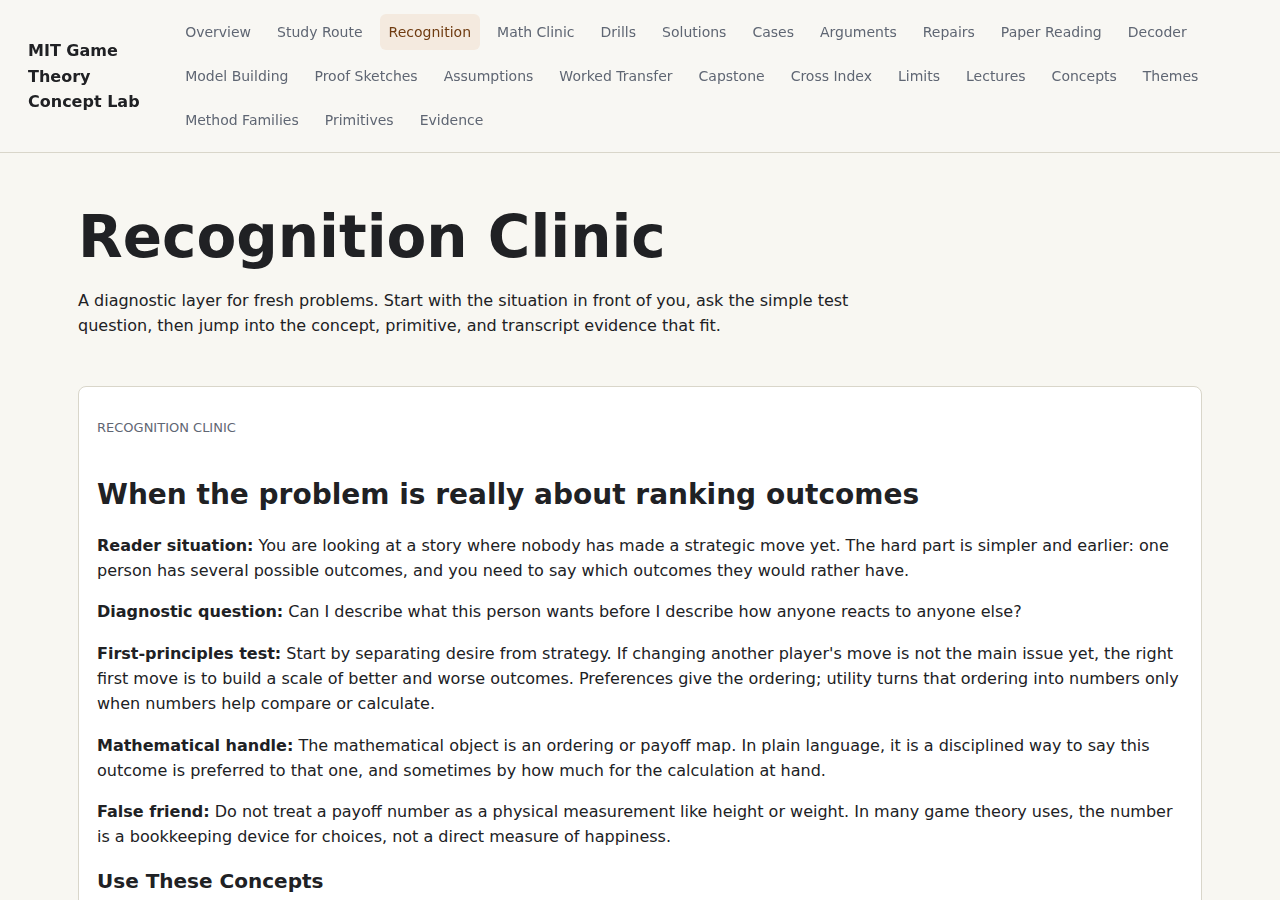
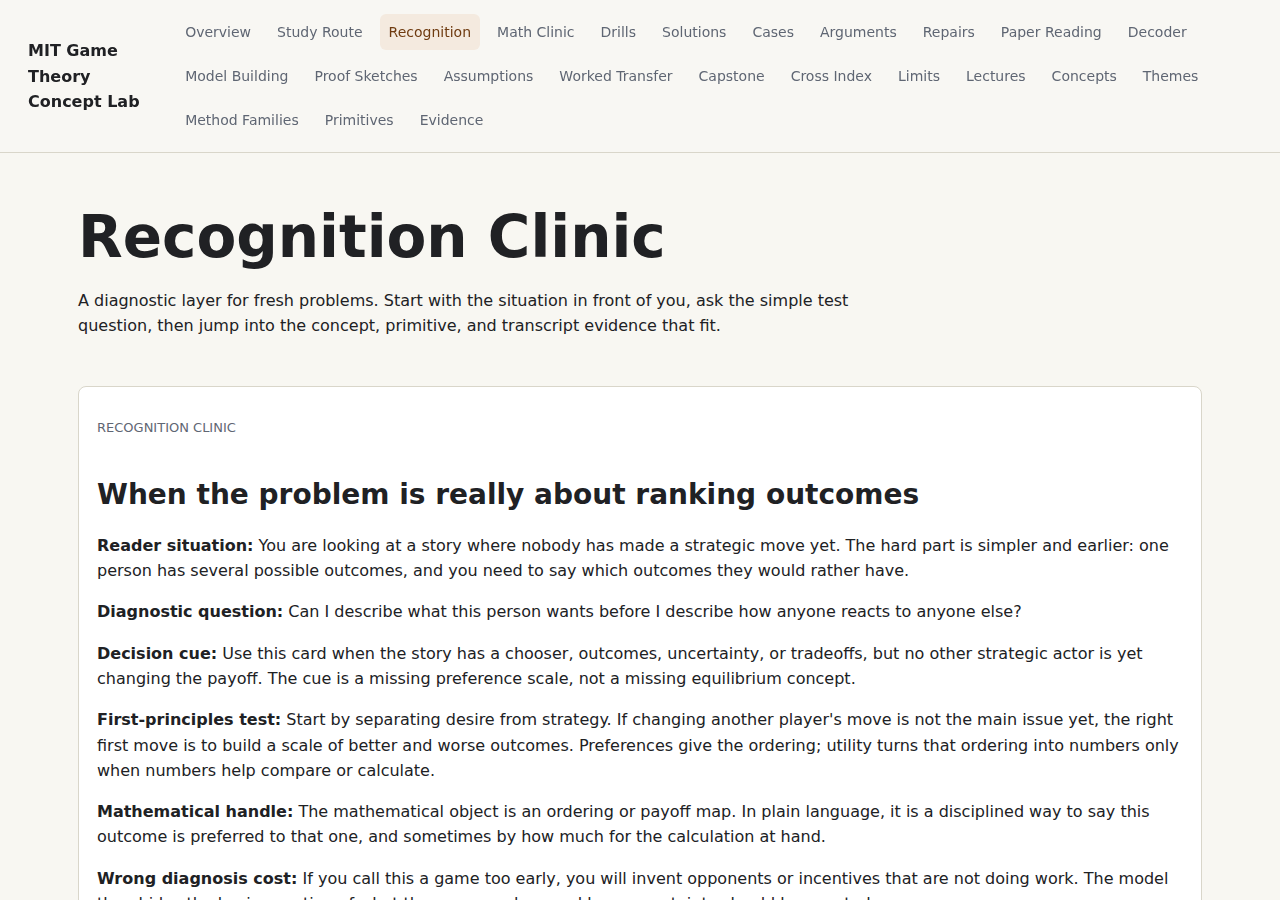
Deepen MIT recognition clinic

Changed region(s): [[0.0625, 0.7156, 0.9375, 0.9333], [0.0625, 0.9644, 0.9062, 1.0]]

diff --git a/site/recognition.html b/site/recognition.html
@@ -19,9 +19,13 @@
   <h2>When the problem is really about ranking outcomes</h2>
   <p><strong>Reader situation:</strong> You are looking at a story where nobody has made a strategic move yet. The hard part is simpler and earlier: one person has several possible outcomes, and you need to say which outcomes they would rather have.</p>
   <p><strong>Diagnostic question:</strong> Can I describe what this person wants before I describe how anyone reacts to anyone else?</p>
+  <p><strong>Decision cue:</strong> Use this card when the story has a chooser, outcomes, uncertainty, or tradeoffs, but no other strategic actor is yet changing the payoff. The cue is a missing preference scale, not a missing equilibrium concept.</p>
   <p><strong>First-principles test:</strong> Start by separating desire from strategy. If changing another player&#x27;s move is not the main issue yet, the right first move is to build a scale of better and worse outcomes. Preferences give the ordering; utility turns that ordering into numbers only when numbers help compare or calculate.</p>
   <p><strong>Mathematical handle:</strong> The mathematical object is an ordering or payoff map. In plain language, it is a disciplined way to say this outcome is preferred to that one, and sometimes by how much for the calculation at hand.</p>
+  <p><strong>Wrong diagnosis cost:</strong> If you call this a game too early, you will invent opponents or incentives that are not doing work. The model then hides the basic question of what the person values and how uncertainty should be counted.</p>
+  <p><strong>Worked recognition:</strong> In the transit example, first list what the rider ranks: shorter time, lower price, fewer transfers, reliability, or comfort. Only after those wants are represented should the analyst ask whether agencies, taxpayers, or rival riders create strategic dependence.</p>
   <p><strong>False friend:</strong> Do not treat a payoff number as a physical measurement like height or weight. In many game theory uses, the number is a bookkeeping device for choices, not a direct measure of happiness.</p>
+  <p><strong>Transfer check:</strong> In a new paper, stop at the first objective function and ask whether it represents one actor’s ranking or an interaction among actors. If it is only one actor, diagnose preference and utility before strategy.</p>
   <h3>Use These Concepts</h3><p class="chips"><a class="chip" href="concepts/preferences.html">Preferences</a><a class="chip" href="concepts/utility.html">Utility</a><a class="chip" href="concepts/expected_utility.html">Expected Utility</a></p>
   <h3>Reusable Primitives</h3><p class="chips"><a class="chip" href="primitives.html#preference">Preference</a><a class="chip" href="primitives.html#payoff_mapping">Payoff Mapping</a></p>
   <h3>Evidence Trail</h3><ul class="evidence-list"><li><a href="evidence.html#ev-preferences-01">ev-preferences-01</a>: Lecture 1: Introduction to Individual Decision-Making</li><li><a href="evidence.html#ev-utility-01">ev-utility-01</a>: Lecture 1: Introduction to Individual Decision-Making</li><li><a href="evidence.html#ev-expected_utility-01">ev-expected_utility-01</a>: Lecture 1: Introduction to Individual Decision-Making</li></ul>
@@ -31,9 +35,13 @@
   <h2>When the problem is really about drawing the situation correctly</h2>
   <p><strong>Reader situation:</strong> You are given a messy interaction and feel tempted to solve it immediately. But the real bottleneck is that the order of moves, available actions, and information are not yet clear.</p>
   <p><strong>Diagnostic question:</strong> Would the answer change if I wrote the same story as a table instead of a tree?</p>
+  <p><strong>Decision cue:</strong> Use this card when the facts are messy because timing, observation, or available actions are unclear. The cue is that changing the diagram from a table to a tree would change what counts as a sensible solution.</p>
   <p><strong>First-principles test:</strong> Ask what each player knows when they choose. If everyone chooses without seeing the others&#x27; current move, a table may be enough. If choices unfold over time, or later players observe earlier moves, the tree matters because timing can create or destroy credible threats.</p>
   <p><strong>Mathematical handle:</strong> The mathematical object is a representation of players, actions, timing, information, and payoffs. The math matters because different representations preserve different facts about the same story.</p>
+  <p><strong>Wrong diagnosis cost:</strong> If you skip representation, you can solve the wrong game perfectly. A simultaneous table can make later threats look fixed, while a tree can expose that the later player would not carry out the announced action.</p>
+  <p><strong>Worked recognition:</strong> In an entry-threat story, write the entrant’s choice first and the incumbent’s response second. If the incumbent chooses after seeing entry, credibility lives at that later node, so a tree is the honest representation.</p>
   <p><strong>False friend:</strong> Do not solve a game before checking whether the representation erased timing or information. A table can hide a threat that a tree exposes as not credible.</p>
+  <p><strong>Transfer check:</strong> When reading a model, ask what the author preserved: simultaneous actions, observed histories, private information, or later decision points. If the representation hides the disputed feature, the solution cannot settle the real question, even when the algebra after that point is correct.</p>
   <h3>Use These Concepts</h3><p class="chips"><a class="chip" href="concepts/strategic_form_games.html">Strategic Form Games</a><a class="chip" href="concepts/extensive_form_games.html">Extensive Form Games</a><a class="chip" href="concepts/backward_induction.html">Backward Induction</a></p>
   <h3>Reusable Primitives</h3><p class="chips"><a class="chip" href="primitives.html#payoff_mapping">Payoff Mapping</a><a class="chip" href="primitives.html#backward_recursion">Backward Recursion</a></p>
   <h3>Evidence Trail</h3><ul class="evidence-list"><li><a href="evidence.html#ev-strategic_form_games-01">ev-strategic_form_games-01</a>: Lecture 2: Representation of Games</li><li><a href="evidence.html#ev-extensive_form_games-01">ev-extensive_form_games-01</a>: Lecture 2: Representation of Games</li><li><a href="evidence.html#ev-backward_induction-01">ev-backward_induction-01</a>: Lecture 8: Backward Induction</li></ul>
@@ -43,9 +51,13 @@
   <h2>When the problem is really about ruling out unreasonable moves</h2>
   <p><strong>Reader situation:</strong> The game has too many possible choices, and some of them look foolish no matter what the other side does. The useful work is not predicting the final outcome yet; it is shrinking the possibility space.</p>
   <p><strong>Diagnostic question:</strong> Is there an action that is worse than another available action under every relevant comparison?</p>
+  <p><strong>Decision cue:</strong> Use this card when the main task is removing actions before predicting a final outcome. The cue is a comparison that does not need a probability over the opponent because one action loses across every relevant case in the represented game.</p>
   <p><strong>First-principles test:</strong> Look for a move that can be beaten without needing a precise prediction of the opponent. Dominance and iterated deletion are pruning tools: they remove choices that cannot be justified by any sensible belief about the other player&#x27;s behavior.</p>
   <p><strong>Mathematical handle:</strong> The mathematical lever is an inequality across payoffs. If one action always gives less than another against the same outside behavior, the weaker action can be deleted from serious consideration.</p>
+  <p><strong>Wrong diagnosis cost:</strong> If you call an unlikely action dominated, you smuggle beliefs into a pruning rule. That can delete strategies that later matter for equilibrium, signaling, or rationalizability, and it makes the reduced game look more certain than the original evidence allowed.</p>
+  <p><strong>Worked recognition:</strong> In a pricing game, do not delete low price merely because the rival is probably calm. Compare low price and high price against every rival action. If low price wins against an aggressive rival, dominance has failed.</p>
   <p><strong>False friend:</strong> Do not confuse unlikely with dominated. A move is not dominated merely because it sounds bad; it must lose under the comparison the model is actually making.</p>
+  <p><strong>Transfer check:</strong> In a proof, find the exact set of outside actions used in deletion. If the author has not compared every relevant case, move from dominance language to belief, best-response, or equilibrium language.</p>
   <h3>Use These Concepts</h3><p class="chips"><a class="chip" href="concepts/dominance.html">Dominance</a><a class="chip" href="concepts/iterated_deletion.html">Iterated Deletion</a><a class="chip" href="concepts/rationalizability.html">Rationalizability</a></p>
   <h3>Reusable Primitives</h3><p class="chips"><a class="chip" href="primitives.html#pruning">Pruning</a><a class="chip" href="primitives.html#best_response">Best Response</a><a class="chip" href="primitives.html#belief">Belief</a></p>
   <h3>Evidence Trail</h3><ul class="evidence-list"><li><a href="evidence.html#ev-dominance-01">ev-dominance-01</a>: Lecture 3: Dominance</li><li><a href="evidence.html#ev-iterated_deletion-01">ev-iterated_deletion-01</a>: Lecture 4: Rationalizability</li><li><a href="evidence.html#ev-rationalizability-01">ev-rationalizability-01</a>: Lecture 4: Rationalizability</li></ul>
@@ -55,9 +67,13 @@
   <h2>When the problem is really about mutual consistency</h2>
   <p><strong>Reader situation:</strong> Each player&#x27;s best move depends on what the other players do. A recommendation that sounds good for one person may collapse once the others are allowed to respond.</p>
   <p><strong>Diagnostic question:</strong> If everyone heard the proposed prediction, would anyone want to change their own move?</p>
+  <p><strong>Decision cue:</strong> Use this card when each player’s best move depends on what others do and the question is whether a proposed prediction holds together. The cue is a unilateral deviation check against a fully specified candidate outcome.</p>
   <p><strong>First-principles test:</strong> Hold the other players&#x27; choices fixed and ask whether each player is doing the best they can from their own point of view. Equilibrium is not moral approval and not group happiness; it is a no-one-wants-to-unilaterally-move test.</p>
   <p><strong>Mathematical handle:</strong> The mathematical object is a fixed point of best responses. In everyday terms, the prediction points back to itself: each part of the prediction gives the other parts a reason to stay in place.</p>
+  <p><strong>Wrong diagnosis cost:</strong> If you confuse equilibrium with welfare, you will reject stable bad outcomes or praise inefficient ones. The model’s prediction claim and the analyst’s welfare judgment become mixed together, so the reader cannot tell what the theorem actually proved.</p>
+  <p><strong>Worked recognition:</strong> For aggressive pricing, freeze one firm at aggressive and ask whether the other wants to switch. Repeat in the other direction. If neither wants to move alone, the outcome can be equilibrium even if both prefer coordinated softness.</p>
   <p><strong>False friend:</strong> Do not read equilibrium as good, fair, efficient, or inevitable. It can be bad for everyone, and the course uses it because it is a disciplined prediction test, not because it is a welfare judgment.</p>
+  <p><strong>Transfer check:</strong> When a paper says equilibrium, ask which deviations are allowed. If only one player can move alone, do not infer efficiency, fairness, uniqueness, convergence, or stability against coalitions.</p>
   <h3>Use These Concepts</h3><p class="chips"><a class="chip" href="concepts/best_response.html">Best Response</a><a class="chip" href="concepts/nash_equilibrium.html">Nash Equilibrium</a><a class="chip" href="concepts/mixed_strategies.html">Mixed Strategies</a><a class="chip" href="concepts/zero_sum_games.html">Zero-Sum Games</a><a class="chip" href="concepts/minimax.html">Minimax</a></p>
   <h3>Reusable Primitives</h3><p class="chips"><a class="chip" href="primitives.html#best_response">Best Response</a><a class="chip" href="primitives.html#mutual_consistency">Mutual Consistency</a><a class="chip" href="primitives.html#belief">Belief</a></p>
   <h3>Evidence Trail</h3><ul class="evidence-list"><li><a href="evidence.html#ev-best_response-02">ev-best_response-02</a>: Lecture 5: Nash Equilibrium</li><li><a href="evidence.html#ev-nash_equilibrium-01">ev-nash_equilibrium-01</a>: Lecture 5: Nash Equilibrium</li><li><a href="evidence.html#ev-mixed_strategies-01">ev-mixed_strategies-01</a>: Lecture 5: Nash Equilibrium</li><li><a href="evidence.html#ev-minimax-02">ev-minimax-02</a>: Lecture 7: Zero-Sum Games</li></ul>
@@ -67,33 +83,45 @@
   <h2>When the problem is really about time and credibility</h2>
   <p><strong>Reader situation:</strong> A player promises, threatens, delays, bargains, or plans to act later. The central question is whether a future action would still make sense when that future moment arrives.</p>
   <p><strong>Diagnostic question:</strong> Would the player still want to carry out the announced plan after reaching the point where the plan is supposed to happen?</p>
+  <p><strong>Decision cue:</strong> Use this card when promises, threats, bargaining offers, delays, or future punishments appear. The cue is that today’s statement must be tested at a later decision point where the speaker may face different incentives.</p>
   <p><strong>First-principles test:</strong> Reason from the end backward. A future threat only matters if it is optimal when the future decision point is actually reached. Backward induction and subgame perfection make the model check promises at the moment they must be honored.</p>
   <p><strong>Mathematical handle:</strong> The mathematical lever is recursion over time: solve the later choice, then use that answer when solving the earlier choice. The later self constrains what the earlier self can credibly claim.</p>
+  <p><strong>Wrong diagnosis cost:</strong> If you accept future speech at face value, you can predict deterrence from empty announcements. The model then gives early words more force than later incentives justify and misses the credibility problem the tree was meant to expose.</p>
+  <p><strong>Worked recognition:</strong> For an incumbent threat, jump to the node after entry and compare fight with accommodate. If accommodate is better there, backward induction says the entrant should not treat the earlier threat as credible without commitment.</p>
   <p><strong>False friend:</strong> Do not accept a threat just because it changes today&#x27;s incentives. If carrying it out tomorrow would hurt the threatener, the model treats it as empty unless another mechanism repairs credibility.</p>
+  <p><strong>Transfer check:</strong> In any dynamic model, identify the last real choice and solve it first. Then work backward. If a claimed strategy fails at a later subgame, the early prediction needs repair.</p>
   <h3>Use These Concepts</h3><p class="chips"><a class="chip" href="concepts/backward_induction.html">Backward Induction</a><a class="chip" href="concepts/subgame_perfection.html">Subgame-Perfect Nash Equilibrium</a><a class="chip" href="concepts/one_shot_deviation.html">One-Shot Deviation Principle</a><a class="chip" href="concepts/bargaining.html">Bargaining</a></p>
   <h3>Reusable Primitives</h3><p class="chips"><a class="chip" href="primitives.html#backward_recursion">Backward Recursion</a><a class="chip" href="primitives.html#discounting">Discounting</a><a class="chip" href="primitives.html#mutual_consistency">Mutual Consistency</a></p>
   <h3>Evidence Trail</h3><ul class="evidence-list"><li><a href="evidence.html#ev-backward_induction-02">ev-backward_induction-02</a>: Lecture 2: Representation of Games</li><li><a href="evidence.html#ev-subgame_perfection-01">ev-subgame_perfection-01</a>: Lecture 10: Subgame-Perfect Nash Equilibrium</li><li><a href="evidence.html#ev-one_shot_deviation-01">ev-one_shot_deviation-01</a>: Lecture 11: One-Shot Deviation Principle and Bargaining</li><li><a href="evidence.html#ev-bargaining-01">ev-bargaining-01</a>: Lecture 9: Negotiation</li></ul>
-  <p><strong>Where to go next:</strong> If the same players meet again and again, ask whether the future can discipline present behavior through repeated-game incentives.</p>
+  <p><strong>Where to go next:</strong> If the same players meet again and again, ask whether the future can discipline present behavior through repeated-game incentives, monitoring, and credible punishment.</p>
 </article><article class="wide-card recognition-card" id="clinic-repetition">
   <p class="eyebrow">Recognition clinic</p>
   <h2>When the problem is really about the future disciplining the present</h2>
   <p><strong>Reader situation:</strong> The same players interact repeatedly, so today&#x27;s selfish move may change tomorrow&#x27;s treatment. The current action is also a signal about how the relationship will continue.</p>
   <p><strong>Diagnostic question:</strong> Is a short-run temptation being restrained by the value of future cooperation?</p>
-  <p><strong>First-principles test:</strong> Compare the one-time gain from deviating with the future loss from being punished or losing cooperation. Repetition matters when future consequences are large enough to change what is rational today.</p>
+  <p><strong>Decision cue:</strong> Use this card when the same players meet over time and today’s action changes future rewards or punishments. The cue is a tradeoff between immediate temptation and continuation value.</p>
+  <p><strong>First-principles test:</strong> Compare the one-time gain from deviating with the future loss from being punished or losing cooperation. Repetition matters when future consequences are large enough to change what is rational today, not merely because the relationship continues.</p>
   <p><strong>Mathematical handle:</strong> The mathematical lever is discounting: future payoffs are counted, but usually with less weight than immediate payoffs. Cooperation can survive only when the discounted future is strong enough to outweigh the immediate temptation.</p>
+  <p><strong>Wrong diagnosis cost:</strong> If repetition is treated as automatic cooperation, finite horizons, weak monitoring, low patience, and noncredible punishment disappear. The repeated-game claim becomes a slogan rather than an incentive calculation.</p>
+  <p><strong>Worked recognition:</strong> For a tacit cartel, name the gain from secretly cutting price today and the loss from future price wars. Cooperation is plausible only when the discounted future loss is large enough to beat the current gain and the rival can actually detect and punish cheating.</p>
   <p><strong>False friend:</strong> Do not assume repetition automatically creates cooperation. If the end is known and close, or players care little about the future, the repeated game can unravel back toward one-shot behavior.</p>
+  <p><strong>Transfer check:</strong> When a paper invokes future discipline, locate the deviation payoff, punishment path, monitoring assumption, and discount factor. If one is missing, mark the cooperation claim as incomplete rather than treating repetition as the mechanism by itself.</p>
   <h3>Use These Concepts</h3><p class="chips"><a class="chip" href="concepts/finitely_repeated_games.html">Finitely Repeated Games</a><a class="chip" href="concepts/infinitely_repeated_games.html">Infinitely Repeated Games</a><a class="chip" href="concepts/folk_theorem.html">Folk Theorem</a><a class="chip" href="concepts/implicit_cartels.html">Implicit Cartels</a></p>
   <h3>Reusable Primitives</h3><p class="chips"><a class="chip" href="primitives.html#discounting">Discounting</a><a class="chip" href="primitives.html#incentive_compatibility">Incentive Compatibility</a><a class="chip" href="primitives.html#mutual_consistency">Mutual Consistency</a></p>
   <h3>Evidence Trail</h3><ul class="evidence-list"><li><a href="evidence.html#ev-finitely_repeated_games-01">ev-finitely_repeated_games-01</a>: Lecture 12: Finitely Repeated Games</li><li><a href="evidence.html#ev-infinitely_repeated_games-01">ev-infinitely_repeated_games-01</a>: Lecture 13: Infinitely Repeated Games</li><li><a href="evidence.html#ev-folk_theorem-01">ev-folk_theorem-01</a>: Lecture 14: Folk Theorem</li><li><a href="evidence.html#ev-implicit_cartels-01">ev-implicit_cartels-01</a>: Lecture 15: Implicit Cartels</li></ul>
-  <p><strong>Where to go next:</strong> If players differ in hidden ways or observe different information, add beliefs and ask what each player can infer from what they see.</p>
+  <p><strong>Where to go next:</strong> If players differ in hidden ways or observe different information, add beliefs and ask what each player can infer from what they see before treating behavior as straightforward choice.</p>
 </article><article class="wide-card recognition-card" id="clinic-private-information">
   <p class="eyebrow">Recognition clinic</p>
   <h2>When the problem is really about hidden information</h2>
   <p><strong>Reader situation:</strong> One side knows something the other side does not: a cost, value, quality, patience level, or outside option. The visible action is partly a choice and partly evidence about the hidden fact.</p>
   <p><strong>Diagnostic question:</strong> Am I trying to predict behavior when players disagree about what kind of person or situation they are facing?</p>
+  <p><strong>Decision cue:</strong> Use this card when one side knows a value, cost, type, quality, or outside option that others cannot directly observe. The cue is that visible behavior also serves as evidence, because observers must infer what kind of player would choose that action.</p>
   <p><strong>First-principles test:</strong> List the possible hidden types and ask what each type would do. Then ask how observers should update their beliefs after seeing an action. Hidden information turns strategy into a joint problem of choosing and interpreting.</p>
   <p><strong>Mathematical handle:</strong> The mathematical object is a belief over possible types, combined with payoffs conditional on those types. Bayes&#x27; rule enters when observed behavior changes which hidden type seems more likely.</p>
+  <p><strong>Wrong diagnosis cost:</strong> If you ignore hidden types, you may treat a signal as a simple statement or a belief as arbitrary. The model then misses imitation incentives and unsupported posterior beliefs.</p>
+  <p><strong>Worked recognition:</strong> For a warranty, ask which seller types find the warranty cheap. If reliable sellers can afford it and unreliable sellers cannot profitably imitate, the warranty can move buyer beliefs. If all types mimic, it cannot separate quality.</p>
   <p><strong>False friend:</strong> Do not treat a belief as a guess with no discipline. In Bayesian games and signaling settings, beliefs must be tied to the possible types, observed actions, and equilibrium logic.</p>
+  <p><strong>Transfer check:</strong> In a new signaling or Bayesian model, list types, priors, observed actions, and imitation checks. A belief update is disciplined only when those pieces explain why the action came from some types more than others.</p>
   <h3>Use These Concepts</h3><p class="chips"><a class="chip" href="concepts/bayesian_games.html">Bayesian Games</a><a class="chip" href="concepts/types_and_beliefs.html">Types And Beliefs</a><a class="chip" href="concepts/bayesian_nash_equilibrium.html">Bayesian Nash Equilibrium</a><a class="chip" href="concepts/screening_and_adverse_selection.html">Screening And Adverse Selection</a><a class="chip" href="concepts/perfect_bayesian_equilibrium.html">Perfect Bayesian Equilibrium</a></p>
   <h3>Reusable Primitives</h3><p class="chips"><a class="chip" href="primitives.html#belief">Belief</a><a class="chip" href="primitives.html#incentive_compatibility">Incentive Compatibility</a><a class="chip" href="primitives.html#mutual_consistency">Mutual Consistency</a></p>
   <h3>Evidence Trail</h3><ul class="evidence-list"><li><a href="evidence.html#ev-bayesian_games-01">ev-bayesian_games-01</a>: Lecture 16: Bayesian Games</li><li><a href="evidence.html#ev-types_and_beliefs-01">ev-types_and_beliefs-01</a>: Lecture 16: Bayesian Games</li><li><a href="evidence.html#ev-bayesian_nash_equilibrium-01">ev-bayesian_nash_equilibrium-01</a>: Lecture 17: Bayesian Nash Equilibrium: Applications</li><li><a href="evidence.html#ev-screening_and_adverse_selection-01">ev-screening_and_adverse_selection-01</a>: Lecture 16: Bayesian Games</li></ul>
@@ -101,15 +129,19 @@
 </article><article class="wide-card recognition-card" id="clinic-design">
   <p class="eyebrow">Recognition clinic</p>
   <h2>When the problem is really about rules shaping incentives</h2>
-  <p><strong>Reader situation:</strong> The main object is not a player choosing inside fixed rules, but the rules themselves: an auction format, market institution, ad slot system, contract, or communication protocol.</p>
+  <p><strong>Reader situation:</strong> The main object is not a player choosing inside fixed rules, but the rules themselves: an auction format, market institution, ad slot system, contract, or communication protocol that changes participant incentives.</p>
   <p><strong>Diagnostic question:</strong> Would changing the rules change what people reveal, bid, produce, or hide?</p>
-  <p><strong>First-principles test:</strong> Treat rules as machines for translating private motives into observable behavior. A good mechanism makes the desired behavior individually sensible; a bad one rewards hiding, shading, collusion, or misleading signals.</p>
+  <p><strong>Decision cue:</strong> Use this card when the rules themselves are the object: an auction, ranking system, contract, market protocol, or communication rule. The cue is that changing the rule changes what participants reveal or choose, even when their private values stay fixed.</p>
+  <p><strong>First-principles test:</strong> Treat rules as machines for translating private motives into observable behavior. A good mechanism makes the desired behavior individually sensible; a bad one rewards hiding, shading, collusion, or misleading signals even if the designer announces a better goal.</p>
   <p><strong>Mathematical handle:</strong> The mathematical lever is incentive compatibility: the rule should make the intended action line up with each participant&#x27;s own payoff calculation. Auctions, screening, and ad markets are different settings where that alignment is the design problem.</p>
+  <p><strong>Wrong diagnosis cost:</strong> If rules are treated as neutral background, the analyst misses how allocation and payment rules create strategic responses. A mechanism can fail because it rewards hiding, shading, collusion, or low-quality signaling.</p>
+  <p><strong>Worked recognition:</strong> In an ad auction, separate the bid, quality score, allocation rule, and payment rule. The platform’s goal matters only through the private calculations advertisers make under those rules, because advertisers respond to expected payoff rather than to the platform’s stated objective.</p>
   <p><strong>False friend:</strong> Do not judge a rule only by the outcome it asks for. The question is whether self-interested participants have a reason to produce that outcome when the rule is actually used.</p>
+  <p><strong>Transfer check:</strong> For any mechanism, write the rule as input to outcome: private information and actions go in, allocation and payments come out. Then ask whether each participant’s best response produces the intended result.</p>
   <h3>Use These Concepts</h3><p class="chips"><a class="chip" href="concepts/imperfect_competition.html">Imperfect Competition</a><a class="chip" href="concepts/auctions.html">Auctions</a><a class="chip" href="concepts/revenue_equivalence.html">Revenue Equivalence</a><a class="chip" href="concepts/ad_auctions.html">Ad Auctions</a><a class="chip" href="concepts/signaling.html">Signaling</a><a class="chip" href="concepts/cheap_talk.html">Cheap Talk</a></p>
   <h3>Reusable Primitives</h3><p class="chips"><a class="chip" href="primitives.html#incentive_compatibility">Incentive Compatibility</a><a class="chip" href="primitives.html#payoff_mapping">Payoff Mapping</a><a class="chip" href="primitives.html#belief">Belief</a></p>
   <h3>Evidence Trail</h3><ul class="evidence-list"><li><a href="evidence.html#ev-auctions-01">ev-auctions-01</a>: Lecture 18: Auctions</li><li><a href="evidence.html#ev-revenue_equivalence-01">ev-revenue_equivalence-01</a>: Lecture 19: Revenue Equivalence</li><li><a href="evidence.html#ev-ad_auctions-01">ev-ad_auctions-01</a>: Lecture 20: Ad Auctions</li><li><a href="evidence.html#ev-cheap_talk-01">ev-cheap_talk-01</a>: Lecture 24: Cheap Talk</li></ul>
-  <p><strong>Where to go next:</strong> If the rule includes messages or public announcements, ask whether the information becomes shared knowledge or merely private interpretation.</p>
+  <p><strong>Where to go next:</strong> If the rule includes messages or public announcements, ask whether the information becomes shared knowledge, credible communication, or merely private interpretation.</p>
 </article></main>
 </body>
 </html>

diff --git a/scripts/validate_site.py b/scripts/validate_site.py
@@ -168,13 +168,15 @@ def main() -> int:
     for item in clinic:
         if f'id="{item["id"]}"' not in recognition_html:
             errors.append(f"recognition clinic item not rendered: {item['id']}")
-        for field in ["reader_situation", "diagnostic_question", "first_principles_test", "mathematical_handle", "false_friend", "where_to_go_next"]:
+        fields = ["reader_situation", "diagnostic_question", "decision_cue", "first_principles_test", "mathematical_handle", "wrong_diagnosis_cost", "worked_recognition", "false_friend", "transfer_check", "where_to_go_next"]
+        for field in fields:
             value = item.get(field, "")
-            if words(value) < 10:
+            minimum = 10 if field in ["diagnostic_question", "where_to_go_next"] else 24
+            if words(value) < minimum:
                 errors.append(f"recognition clinic {item['id']} has shallow {field}")
             elif html.escape(value, quote=True) not in recognition_html:
                 errors.append(f"recognition clinic {item['id']} {field} not rendered")
-        if words(" ".join(str(item.get(field, "")) for field in ["reader_situation", "first_principles_test", "mathematical_handle", "false_friend", "where_to_go_next"])) < 95:
+        if words(" ".join(str(item.get(field, "")) for field in fields)) < 310:
             errors.append(f"recognition clinic {item['id']} has shallow combined treatment")
         for concept_id in item.get("use_these_concepts", []):
             if concept_id not in concept_by_id:

diff --git a/scripts/audit_editorial_quality.py b/scripts/audit_editorial_quality.py
@@ -289,11 +289,11 @@ def main() -> int:
             errors.append(f"recognition clinic {item['id']} not rendered")
         text = " ".join(
             str(item.get(k, ""))
-            for k in ["reader_situation", "diagnostic_question", "first_principles_test", "mathematical_handle", "false_friend", "where_to_go_next"]
+            for k in ["reader_situation", "diagnostic_question", "decision_cue", "first_principles_test", "mathematical_handle", "wrong_diagnosis_cost", "worked_recognition", "false_friend", "transfer_check", "where_to_go_next"]
         )
         treatment_words = words(text)
         recognition_words.append(treatment_words)
-        if treatment_words < 95:
+        if treatment_words < 310:
             errors.append(f"recognition clinic {item['id']} has shallow diagnostic treatment: {treatment_words} words")
         linked_concepts = [cid for cid in item.get("use_these_concepts", []) if f'href="concepts/{cid}.html"' in recognition_html]
         linked_primitives = [pid for pid in item.get("use_these_primitives", []) if f'href="primitives.html#{pid}"' in recognition_html]

diff --git a/scripts/build_site.py b/scripts/build_site.py
@@ -309,9 +309,13 @@ def build_recognition_clinic(clinic, concept_by_id, primitive_by_id, ev_by_id):
   <h2>{esc(item["title"])}</h2>
   <p><strong>Reader situation:</strong> {esc(item["reader_situation"])}</p>
   <p><strong>Diagnostic question:</strong> {esc(item["diagnostic_question"])}</p>
+  <p><strong>Decision cue:</strong> {esc(item["decision_cue"])}</p>
   <p><strong>First-principles test:</strong> {esc(item["first_principles_test"])}</p>
   <p><strong>Mathematical handle:</strong> {esc(item["mathematical_handle"])}</p>
+  <p><strong>Wrong diagnosis cost:</strong> {esc(item["wrong_diagnosis_cost"])}</p>
+  <p><strong>Worked recognition:</strong> {esc(item["worked_recognition"])}</p>
   <p><strong>False friend:</strong> {esc(item["false_friend"])}</p>
+  <p><strong>Transfer check:</strong> {esc(item["transfer_check"])}</p>
   <h3>Use These Concepts</h3><p class="chips">{concept_links}</p>
   <h3>Reusable Primitives</h3><p class="chips">{primitive_links}</p>
   <h3>Evidence Trail</h3><ul class="evidence-list">{evidence_links}</ul>

diff --git a/analysis/audits/site-render-report.md b/analysis/audits/site-render-report.md
@@ -10,7 +10,7 @@ Playwright render audit for representative desktop and mobile pages.
 
 - desktop-index: `index.html`, viewport 1280,900, captured 1280x900, 133177 bytes
 - desktop-study-route: `study-route.html`, viewport 1280,900, captured 1280x900, 149361 bytes
-- desktop-recognition: `recognition.html`, viewport 1280,900, captured 1280x900, 151160 bytes
+- desktop-recognition: `recognition.html`, viewport 1280,900, captured 1280x900, 159710 bytes
 - desktop-math-clinic: `math-clinic.html`, viewport 1280,900, captured 1280x900, 144019 bytes
 - desktop-drills: `drills.html`, viewport 1280,900, captured 1280x900, 148307 bytes
 - desktop-solutions: `solutions.html`, viewport 1280,900, captured 1280x900, 155765 bytes

diff --git a/analysis/audits/editorial-quality-report.md b/analysis/audits/editorial-quality-report.md
@@ -30,7 +30,7 @@ This static audit checks explanatory depth, required teaching sections, evidence
 - Study route primitive links: 16
 - Study route evidence links: 26
 - Recognition clinic cards: 8
-- Recognition clinic words: min 157, max 198
+- Recognition clinic words: min 311, max 344
 - Recognition clinic concept links: 33
 - Recognition clinic primitive links: 22
 - Recognition clinic evidence links: 29
